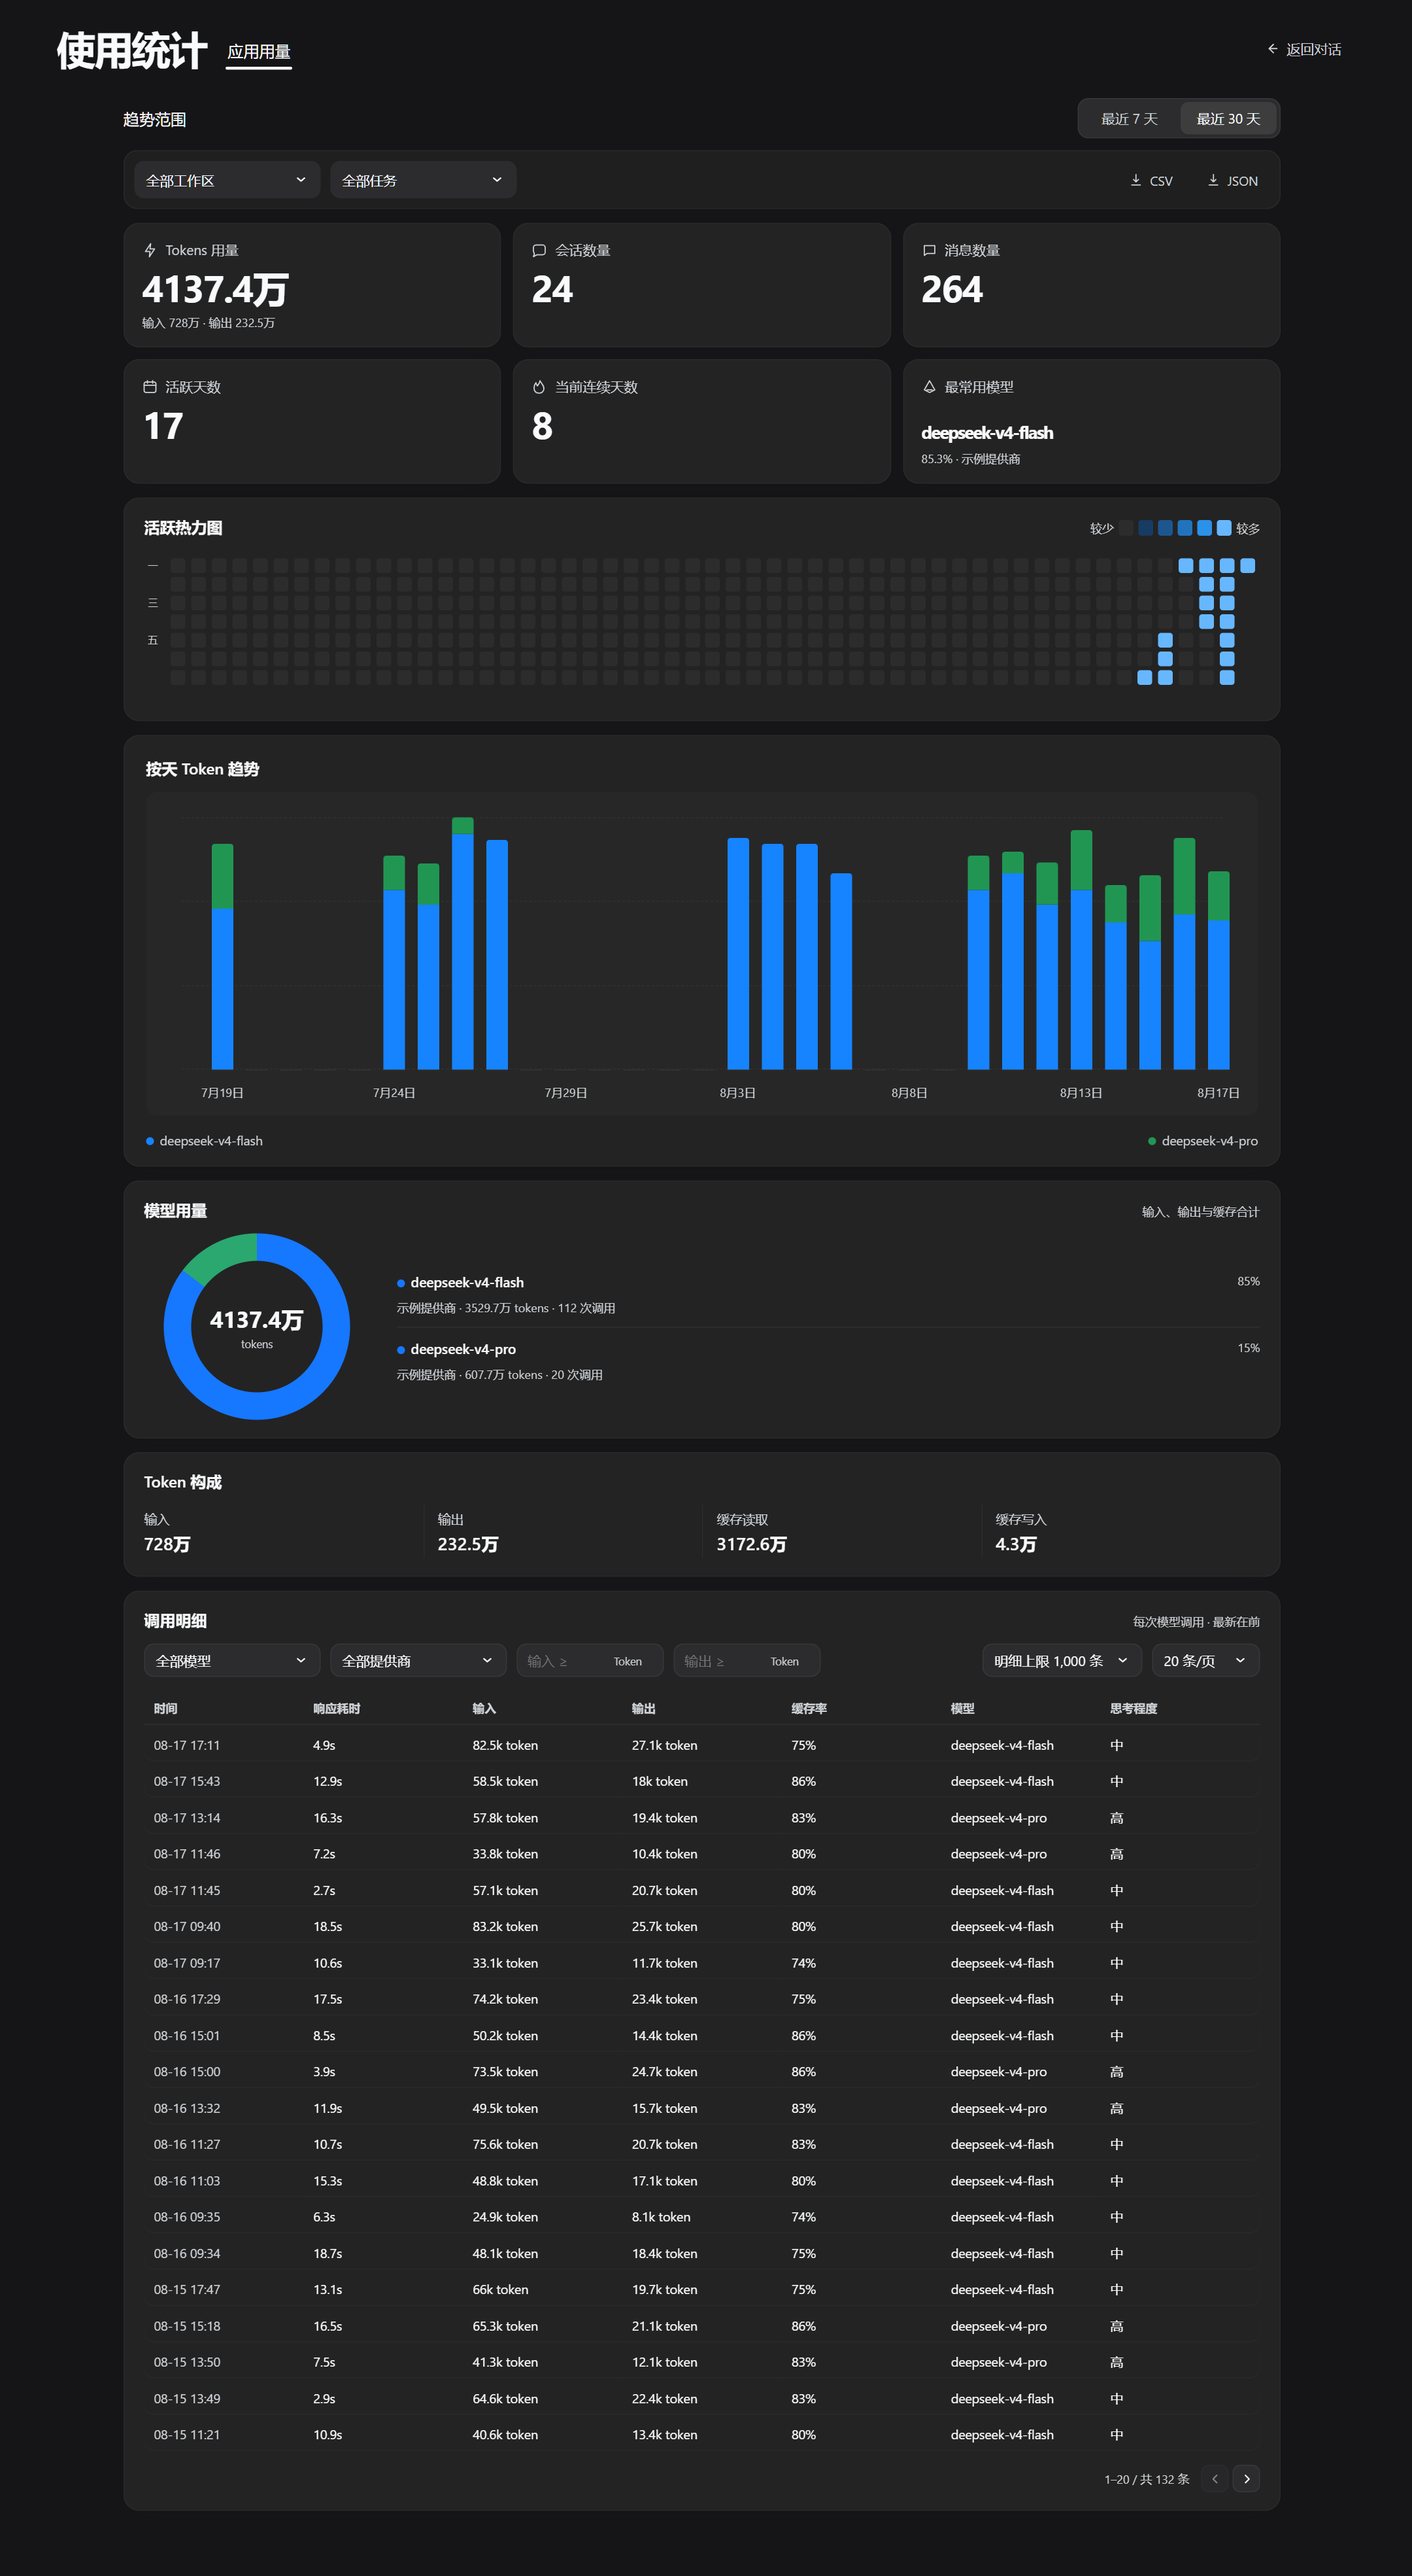
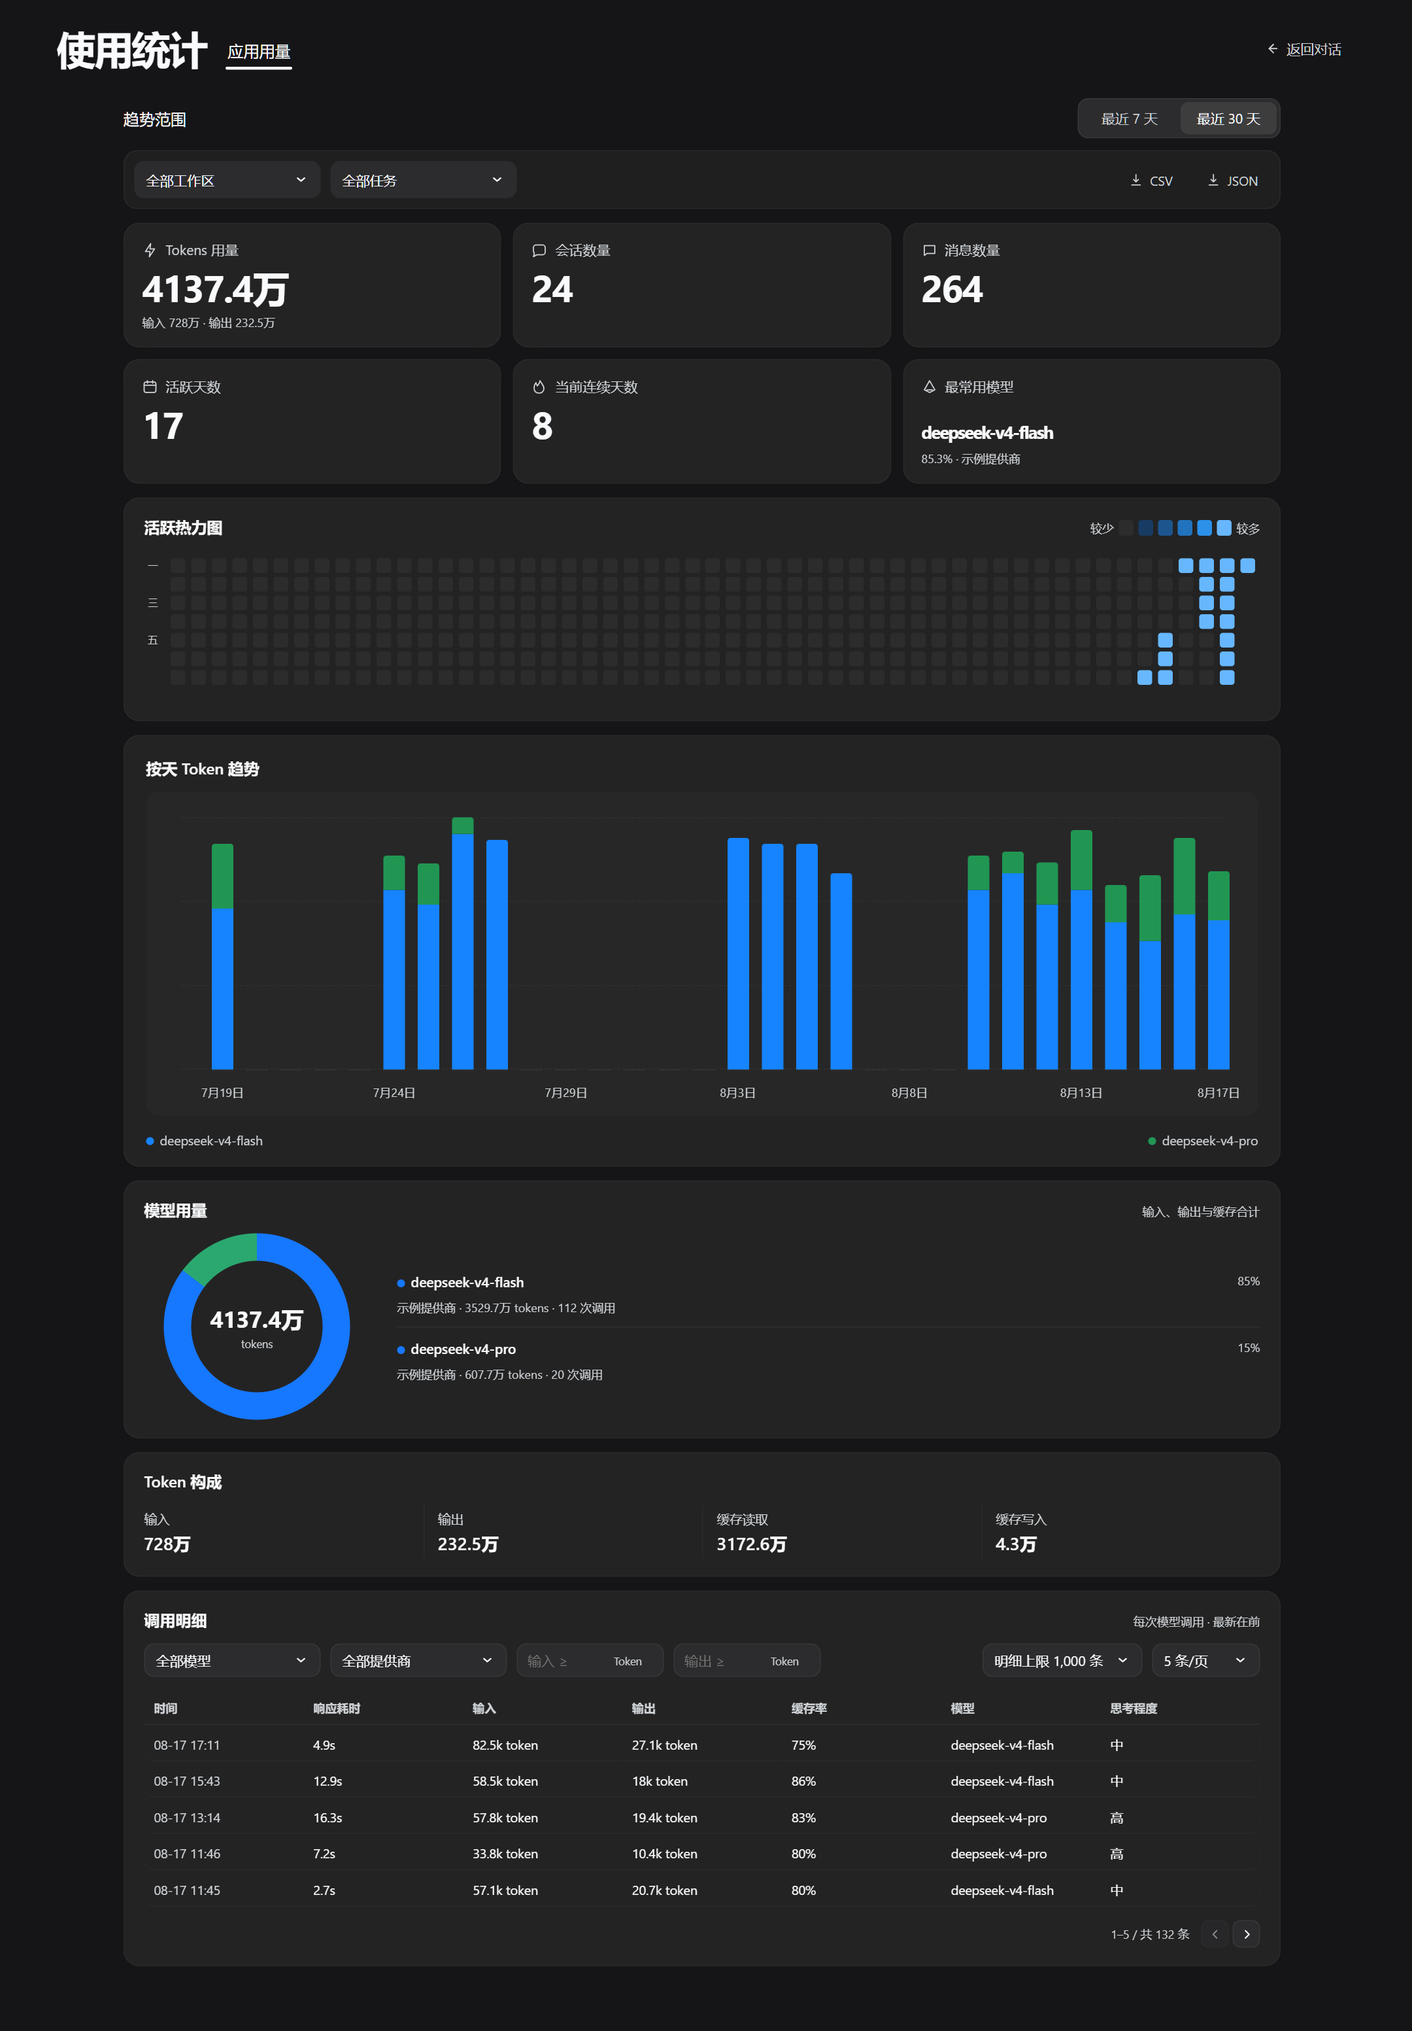
refine demo pagination and hover states

diff --git a/src/client/index.tsx b/src/client/index.tsx
@@ -209,12 +209,12 @@ const MAX_RECORD_OPTIONS = [100, 500, 1_000, 2_000, 5_000, 10_000]
 const MAX_RECORD_STORAGE_KEY = 'dsh-usage-stats:calls-max-records'
 
 function initialPageSize(): number {
-  if (typeof window === 'undefined') return 20
+  if (typeof window === 'undefined') return 5
   try {
     const saved = Number(window.localStorage.getItem(PAGE_SIZE_STORAGE_KEY))
-    return PAGE_SIZE_OPTIONS.includes(saved) ? saved : 20
+    return PAGE_SIZE_OPTIONS.includes(saved) ? saved : 5
   } catch {
-    return 20
+    return 5
   }
 }
 

diff --git a/CHANGELOG.md b/CHANGELOG.md
@@ -11,6 +11,9 @@ Versioning while DeepSeek Harness remains in developer preview.
   current call-detail interface with anonymous example data.
 - Added a repeatable isolated capture workflow for keeping README media in sync
   with future dashboard updates.
+- Reduced the default call-detail page size to five rows while preserving each
+  user's most recent selection, and added heatmap, chart, and row hover moments
+  to the demo animation.
 
 ## [0.1.16] - 2026-08-17
 
